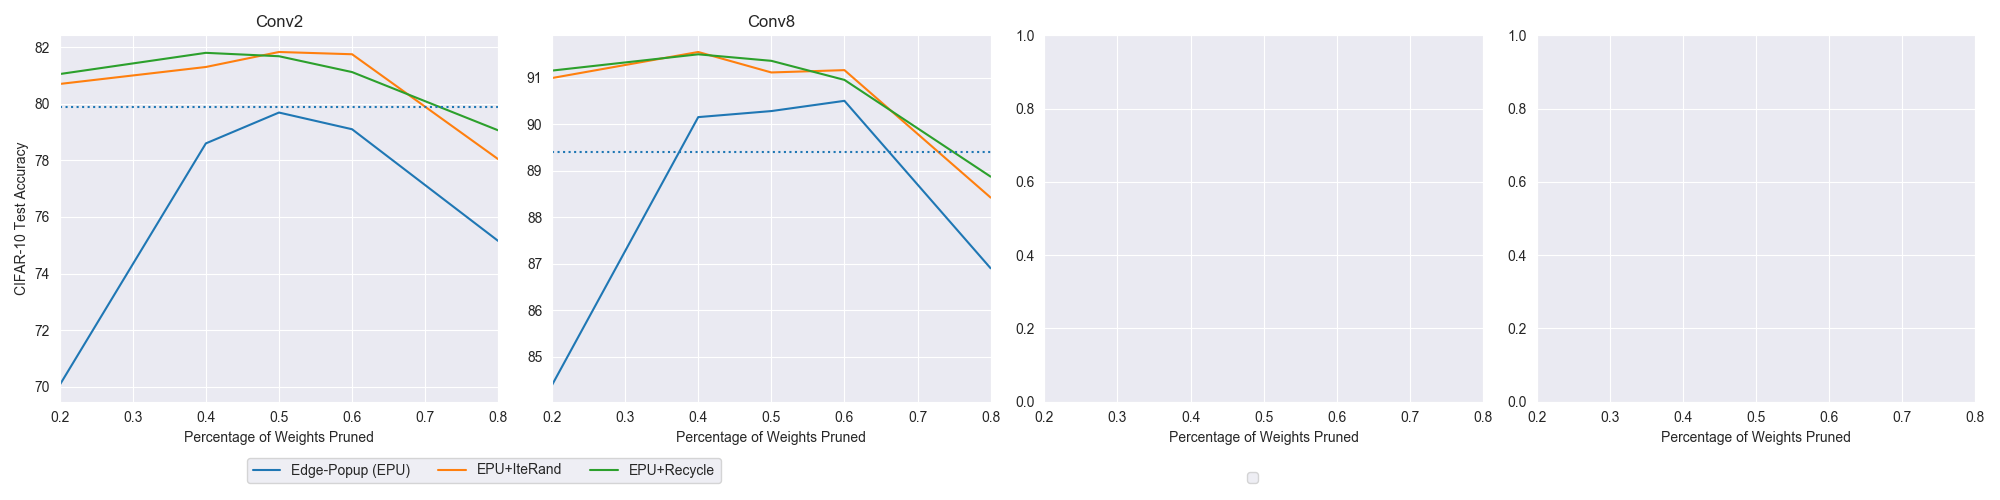
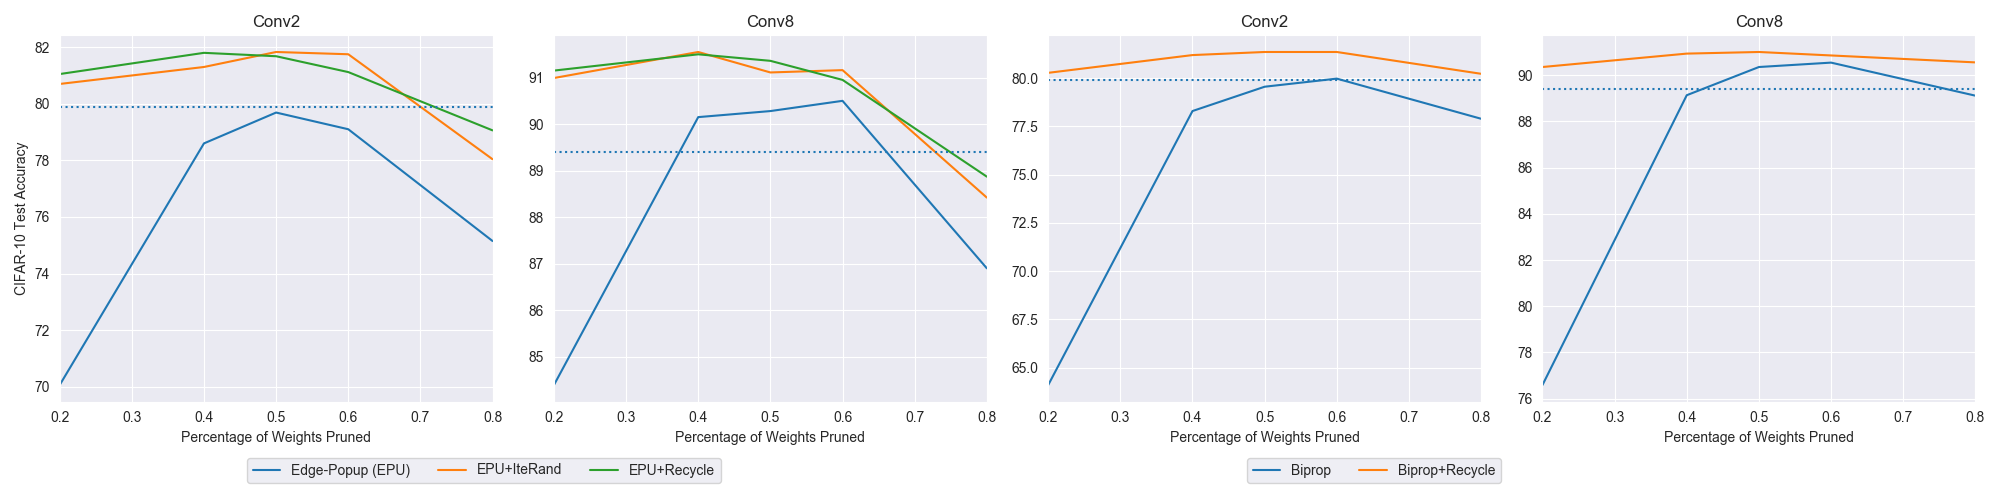
configs

diff --git a/figures/plots.py b/figures/plots.py
@@ -18,6 +18,21 @@ axs[1].axhline(89.41, linestyle=':', )
 axs[1].title.set_text('Conv8')
 
 
+
+
+sns.lineplot(x=[.5,0.8,.6,.4,.2], y=[79.56,77.9,79.98,78.3,64.1] ,ax=axs[2], label='Biprop', legend=False)
+#sns.lineplot(x=[.5,0.8,.6,.4,.2], y=[65.3,58.9,65.72,65,56] ,ax=axs[2], label='Biprop+IteRand', legend=False)
+sns.lineplot(x=[.5,0.8,.6,.4,.2], y=[81.36,80.23,81.36,81.2,80.28] ,ax=axs[2], label='Biprop+Recycle', legend=False)
+axs[2].axhline(79.9, linestyle=':', )
+axs[2].title.set_text('Conv2')
+
+sns.lineplot(x=[.5,0.8,.6,.4,.2], y=[90.35,89.11,90.54,89.13,76.59] ,ax=axs[3], label='Biprop', legend=False)
+#sns.lineplot(x=[.5,0.8,.6,.4,.2], y=[77.61,76.72,78.9,75.14,49.84] ,ax=axs[3], label='Biprop+IteRand', legend=False)
+sns.lineplot(x=[.5,0.8,.6,.4,.2], y=[91,90.55,90.85,90.93,90.35] ,ax=axs[3], label='Biprop+Recycle', legend=False)
+axs[3].axhline(89.41, linestyle=':', )
+axs[3].title.set_text('Conv8')
+
+
 for ax in axs:
     ax.set(xlabel="Percentage of Weights Pruned")
     #ax.get_legend().remove()
@@ -30,7 +45,6 @@ handles, labels = axs[2].get_legend_handles_labels()
 fig.legend(handles, labels, loc='lower left', ncol=3,bbox_to_anchor=(.62, .02))
 plt.tight_layout(rect=[0,.08,1,1])
 print(labels)
-#plt.show()
 plt.savefig('figures/test.png')
 
 del fig
